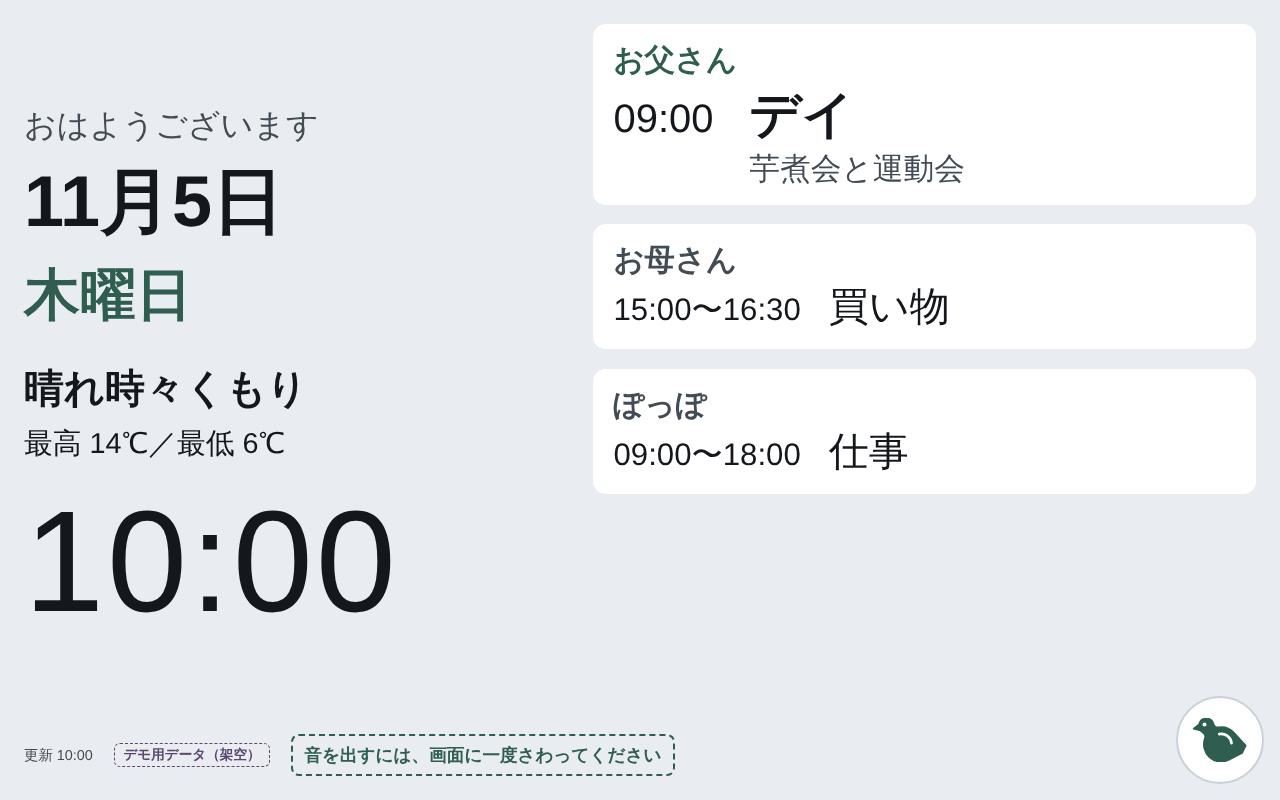
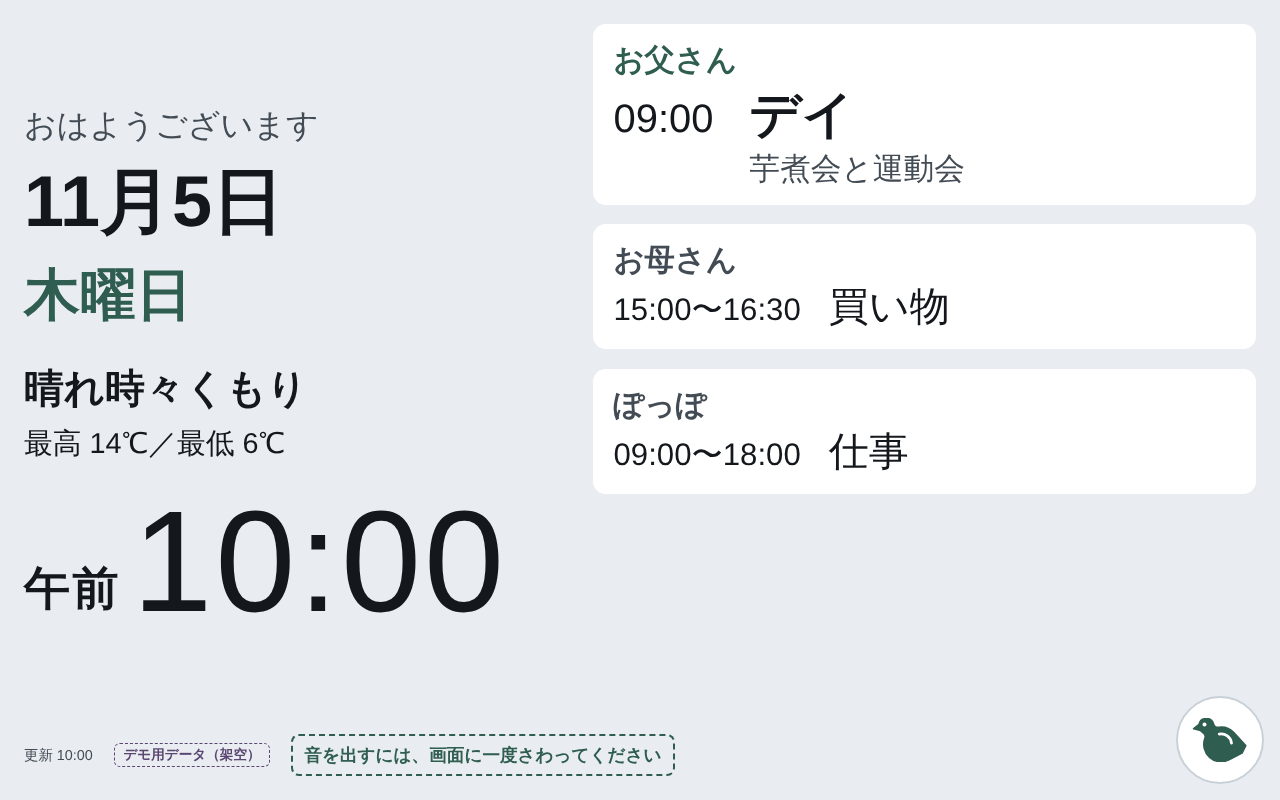
時計を12時間表記にして午前・午後を付ける／ライセンスをMITに
Claude-Session: https://claude.ai/code/session_013CETVtP6uaoyUF1uvHm5HP

Changed region(s): [[0.0, 0.625, 0.4062, 0.7812]]

diff --git a/app/app.js b/app/app.js
@@ -385,14 +385,14 @@ function updateDisplay(np, occ, active) {
   // 夜：暗い画面で日付・時計・ひとことだけを出し続ける（画面は消さない）
   setHTML($("night"), night ? `<div class="night-screen" aria-label="夜の表示">
       <p class="n-date">${np.m}月${np.d}日 ${S.WEEKDAYS[np.dow]}曜日</p>
-      <p class="n-clock num">${np.time.slice(0, 5)}</p>
+      <p class="n-clock num">${clockHTML(np.time)}</p>
       <p class="n-text">今は夜です。おやすみなさい</p>
       ${sound.isReady() ? "" : `<button class="tap-sound n-tap" type="button" data-act="unlock">音を出すには、画面に一度さわってください</button>`}
     </div>` : "");
   $("date").textContent = `${np.m}月${np.d}日`;
   $("wday").textContent = `${S.WEEKDAYS[np.dow]}曜日`;
   setHTML($("weather"), weatherHTML(np));
-  $("clock").textContent = np.time.slice(0, 5);
+  setHTML($("clock"), clockHTML(np.time));
 
   // ふだんの画面：ごはん・お薬はお知らせ中だけ、終わった予定は消す（11/4 決定）
   const shown = S.homeItems(occ, active, np.time);
@@ -439,7 +439,7 @@ function updateDisplay(np, occ, active) {
       return `<div class="item">${p && !p.is_patient ? `<div class="who-n">${esc(p.name)}</div>` : ""}<div class="what-n">${esc(s.title)}</div>${s.display_text ? `<div class="sub-n">${esc(s.display_text)}</div>` : ""}${s.start_time ? `<div class="time-n">${esc(S.hm(s.start_time))}</div>` : ""}</div>`;
     }).join("");
     setHTML($("notice"), `<div class="notice ${active.length > 1 ? "many" : ""}" role="alert">
-      <div class="top"><span>${np.m}月${np.d}日 ${S.WEEKDAYS[np.dow]}曜日</span><span class="clock-s">${np.time.slice(0, 5)}</span></div>
+      <div class="top"><span>${np.m}月${np.d}日 ${S.WEEKDAYS[np.dow]}曜日</span><span class="clock-s">${clockHTML(np.time)}</span></div>
       <div class="items">${items}</div>
       <div class="pigeon"><span>${pigeonName() ? `${esc(pigeonName())}からのお知らせ` : "くるっくー　お知らせです"}</span>${sound.isBusy() ? `<button class="btn stop-sound" type="button" data-act="stop-sound">音を止める</button>` : ""}${sound.isReady() ? "" : `<button class="tap-sound" type="button" data-act="unlock">音を出すには、画面に一度さわってください</button>`}</div></div>`);
   } else {
@@ -449,6 +449,12 @@ function updateDisplay(np, occ, active) {
 
 // ---------- 今日の予定を聞く（11/5 決定） ----------
 // 父が文字を読めなくなっても、お知らせを聞き逃しても、知りたいときに自分で聞ける。天気は読まない。
+/** 時計：小さめの「午前／午後」＋12時間の時刻 */
+function clockHTML(time) {
+  const c = S.clock12(time);
+  return `<span class="ampm">${c.ampm}</span>${c.hm}`;
+}
+
 async function onReadAloud() {
   if (sound.isReading()) { sound.stopReading(); tick(); return; }
   if (!sound.isReady()) await sound.unlock();

diff --git a/app/schedule.js b/app/schedule.js
@@ -127,6 +127,16 @@ export function spokenTime(t) {
   return `${h}時${m}分`;
 }
 
+/**
+ * 時計の表示（11/5 決定：時計だけ12時間表記に「午前・午後」を付ける。予定の時刻は 9:00 のまま）
+ * "18:30:00" → { ampm: "午後", hm: "6:30" }。0時台と12時台は 12 と書く（読み上げの spokenTime と同じ）
+ */
+export function clock12(t) {
+  const [h24, m] = normTime(t).split(":").map(Number);
+  const h = h24 % 12 === 0 ? 12 : h24 % 12;
+  return { ampm: h24 < 12 ? "午前" : "午後", hm: `${h}:${String(m).padStart(2, "0")}` };
+}
+
 function intro(pigeonName) {
   return pigeonName ? `くるっくー。${pigeonName}です。` : "くるっくー。";
 }

diff --git a/app/style.css b/app/style.css
@@ -100,6 +100,8 @@ body.is-night { background: var(--night-bg); }
 }
 .night-screen p { margin: 0; }
 .n-date { font-size: clamp(22px, 5vmin, 60px); color: var(--night-muted); }
+.ampm { font-size: 0.32em; font-weight: 700; letter-spacing: 0.05em; margin-right: 0.25em; vertical-align: 0.15em; }
+.clock-s .ampm { font-size: 0.55em; }
 .n-clock { font-size: clamp(72px, 26vmin, 300px); font-weight: 500; line-height: 1; letter-spacing: 0.02em; }
 .n-text { font-size: clamp(24px, 6vmin, 72px); }
 .n-tap { color: var(--night-muted); border-color: var(--night-muted); margin-top: 3vmin; }

diff --git a/docs/demo/README.md b/docs/demo/README.md
@@ -15,4 +15,4 @@
 - `skill-before.png`：見直す前のコード（コミット af3e6fd）で表示した本人の画面
 - `skill-after.png`：今のコードで表示した本人の画面
 
-どちらも架空の「豆田家ふう」のデータ、同じ時刻（11月5日 10:00）で撮影。前後の違いは、ごはん・お薬をお知らせ中だけにしたこと、終わった予定を消したこと、開始時刻だけにして中身を一言で添えたこと、文字を太く大きくしたこと、天気を短くしたこと。右下の鳩の絵が違うのはロゴを決めたためで、Skillの見直しとは関係ない。
+どちらも架空の「豆田家ふう」のデータ、同じ時刻（11月5日 10:00）で撮影。前後の違いは、ごはん・お薬をお知らせ中だけにしたこと、終わった予定を消したこと、開始時刻だけにして中身を一言で添えたこと、文字を太く大きくしたこと、天気を短くしたこと。「後」の時計に「午前」が付いているのは、その後（11/5）に時計を12時間表記にしたため。右下の鳩の絵が違うのはロゴを決めたためで、Skillの見直しとは関係ない。

diff --git a/README.md b/README.md
@@ -82,4 +82,4 @@
 
 ## ライセンス
 
-（相談中）
+このリポジトリのコード・文書・音・画像は [MIT License](LICENSE) です。ただし、上の「使っている素材・ライブラリ」に書いた外部の素材（Lucide Icons、フォント、天気のデータなど）は、それぞれのライセンスに従います。
